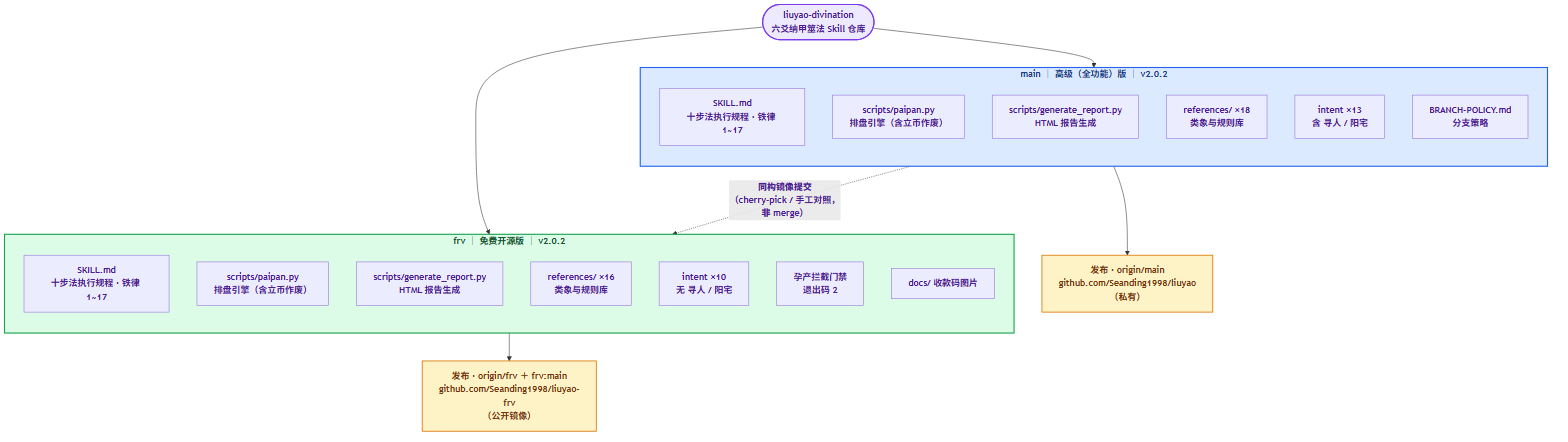
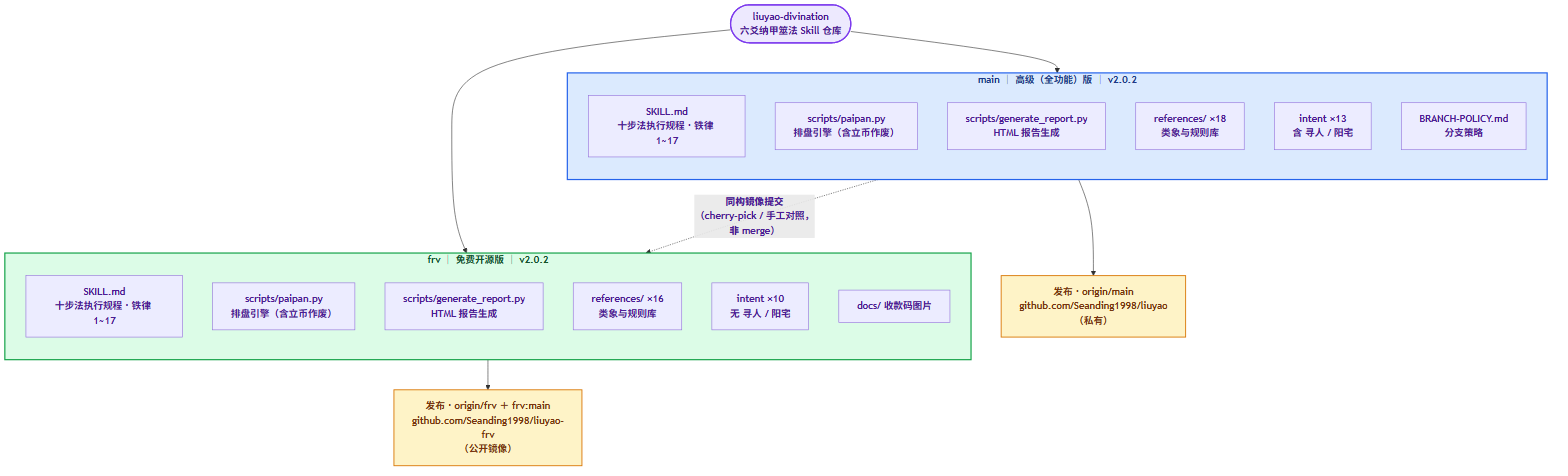
docs: frv 对外文档移除孕产门禁的公开提及
仅清理对外可见文档，功能不变（SKILL.md 门禁执行段与 paipan.py 拦截代码保留）：
- 结构图 docs/figures/architecture-main-frv：移除 frv 子图的"孕产拦截门禁"节点，
  并重新渲染 PNG。
- README「限制」节：与全功能版差异列表去掉"孕产"。
- CHANGELOG v2.0.2：退出码说明去掉"2 孕产拦截"。

diff --git a/CHANGELOG.md b/CHANGELOG.md
@@ -14,7 +14,7 @@
 
 ### 立币作废机制（同构 main v2.0.2）
 
-- `scripts/paipan.py`：新增立币作废——`toss_coins()` 逐枚三态判定：每枚硬币落地那一刻由**同一次抽取**当场定出「正 / 反 / 立」，立币与正反同源同抽；任意一枚立起即抛 `CoinEdgeError`、整卦作废；单枚概率常量 `DEFAULT_EDGE_PROB = 1/6000`（0..9999 网格就近取整为 2/10000）。新增 `--edge-prob`（默认 1/6000，设 0 关闭）；退出码约定 0 成功 / 1 参数错误 / 2 孕产拦截 / 3 立币作废；作废时在 `-o` 同目录写 `paipan_void.json`，不产出 `paipan_result.json`。
+- `scripts/paipan.py`：新增立币作废——`toss_coins()` 逐枚三态判定：每枚硬币落地那一刻由**同一次抽取**当场定出「正 / 反 / 立」，立币与正反同源同抽；任意一枚立起即抛 `CoinEdgeError`、整卦作废；单枚概率常量 `DEFAULT_EDGE_PROB = 1/6000`（0..9999 网格就近取整为 2/10000）。新增 `--edge-prob`（默认 1/6000，设 0 关闭）；退出码约定 0 成功 / 1 参数错误 / 3 立币作废；作废时在 `-o` 同目录写 `paipan_void.json`，不产出 `paipan_result.json`。
 - `scripts/paipan.py`：摇卦随机源改造——默认（未指定 `--seed`）改用**时间随机**（`make_time_rng()`，纳秒时钟 `time.time_ns()` 异或操作系统物理熵 `os.urandom(8)` 播种），使卦象锁死在起卦此刻；`toss_coins()/generate_ygua()` 改为接收注入随机源。关闭立币（slots=0）时抽取序列与 v2.0.1 逐位一致，历史 `--seed` 卦象仍可复现。
 - 设计意图（防后人误改）：立币**不做独立随机源**——每枚硬币落地那一刻由同一次抽取定三态，与正反共享 `toss_rng`；独立叠加在物理上不成立。已废弃的"正面一条流、立币另一条流"写法不得恢复。
 - `SKILL.md`：新增铁律 17「立币作废」；第零步第 6 步补充逐枚立币三态与 `--edge-prob` 说明，新增「立币作废分支（退出码 3）」处理流程、固定用户话术与专用输出块；检查点增加退出码判定。
